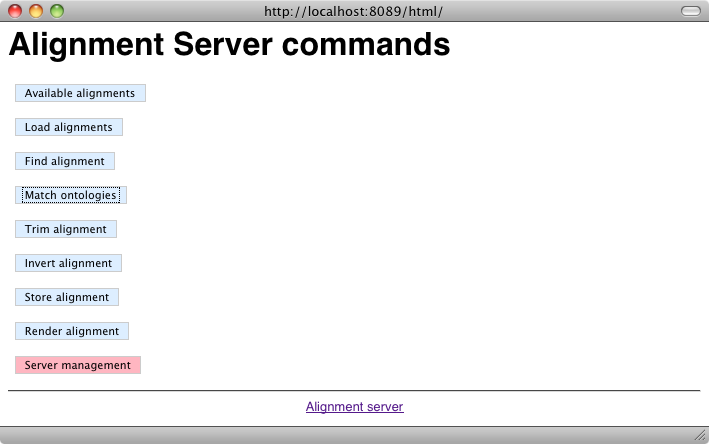
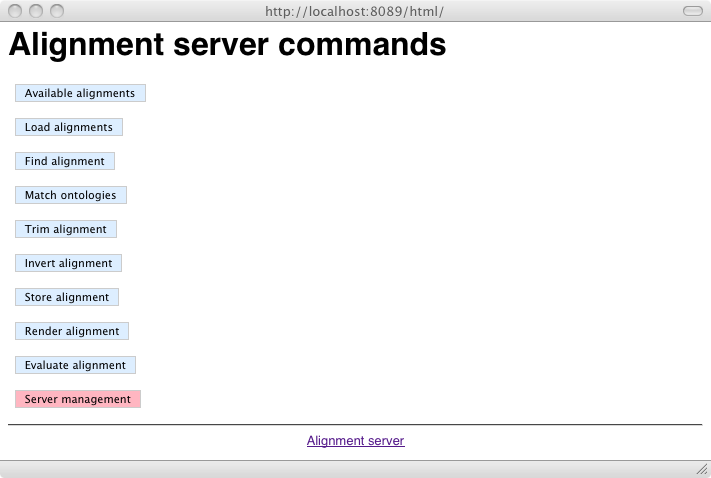
- implemented online evaluation

Changed region(s): [[0.0, 0.1757, 0.9929, 0.9369], [0.0, 0.0, 1.0, 0.1464], [0.0, 0.9662, 1.0, 1.0]]

diff --git a/html/relnotes.html b/html/relnotes.html
@@ -39,14 +39,13 @@ Currently the development and maintainance of 3 versions continue.
 <p><ul compact="1">
 <li>Integration of SKOS API (ontowrap)</li>
 <li>Implement full OWL rendering of EDOAL (impl)</li>
-<li>Adding type checking to EDOAL paser (parser)</li>
+<li>Adding type checking to EDOAL parser (parser)</li>
 <li>Implement fully relaxed precision and recall (impl)</li>
 <li>Implement database store for EDOAL (server)</li>
 <li>Integrate some basic reasoning.</li>
-<li>Complete tutorial4 with reasoning.</li>
+<li>Complete tutorial4 with distributed reasoning.</li>
 <li>Genericize evaluators in <tt>GraphEvaluator</tt> and <tt>GenPlot</tt> (eval)</li>
 <li>Implementation of a provenance metadata tag (server/impl)</li>
-<li>Online evaluation (server)</li>
 <li>Providing a <tt>DiffAlign( al1, al2 )</tt> operation and interface
   (util)</li>
 <li>Replace <tt>DistanceAlignment</tt> with a version more in line
@@ -68,6 +67,8 @@ Currently the development and maintainance of 3 versions continue.
 <!--h2>Version 4.1 (1xxx): xx/09/2009 - Tring</h2-->
 
 <p><ul compact="1">
+<li>Added a getResult() method to Evaluator (api)</li>
+<li>Implemented online evaluation (server)</li>
 <li>Upgraded to <span style="color: green">Pellet 2.1</span> (lib)</li>
 <li>Added tutorial 4 Pellet action (tutorial)</li>
 <li>Fixed path errors in tutorials (tutorial)</li>

diff --git a/html/tutorial/tutorial1/server.html b/html/tutorial/tutorial1/server.html
@@ -32,7 +32,7 @@ div.logic {
 </head>
 <body style="background-color: #FFFFFF;">
 
-<h1>Manipulating alignments through a web client: a tutorial companion for the Alignment server</h1>
+<h1>Manipulating alignments through a web client:<br /> a tutorial companion for the Alignment server</h1>
 
 <dl>
 <dt>This version:</dt>
@@ -238,7 +238,15 @@ following interface:
 
 <h2>Evaluating</h2>
 	
-<p><b>This part is not yet available through the server</b></p>
+<p>
+An alignment can be evaluated against a reference alignment through an
+Evaluator class:
+<center><img src="server/eval1.png" /></center>
+which returns the measures provided by the evaluator (here precision,
+recall and derivative measures):
+<center><img src="server/evalresult1.png" width="100%" /></center>
+</p>
+</p>
 
 <h2>Further exercises</h2>
 	

diff --git a/src/fr/inrialpes/exmo/align/service/HTMLAServProfile.java b/src/fr/inrialpes/exmo/align/service/HTMLAServProfile.java
@@ -421,6 +421,8 @@ public class HTMLAServProfile implements AlignmentServiceProfile {
 	    } else {
 		msg = "Error: the server does not have Web service capabilities (use -W switch)";
 	    }
+	} else if ( perf.equals("argline") ){
+	    msg = "<h1>Command line arguments</h1>\n<pre>\n"+manager.argline()+"\n<pre>\n";
 	} else if ( perf.equals("prmsqlquery") ){
 	    msg = "<h1>SQL query</h1><form action=\"sqlquery\">Query:<br /><textarea name=\"query\" rows=\"20\" cols=\"80\">SELECT \nFROM \nWHERE </textarea> (sql)<br /><small>An SQL SELECT query</small><br /><input type=\"submit\" value=\"Query\"/></form>";
 	} else if ( perf.equals("sqlquery") ){
@@ -776,6 +778,8 @@ public class HTMLAServProfile implements AlignmentServiceProfile {
 	    } else {
 		msg = "<h1>Evaluation results</h1>";
 		msg += displayAnswer( answer, params );
+		// This should be nice here to provide the oportunity to diff them
+		// This needs to pass arguments... and to get them on the other side.
 	    }
 	} else if ( perf.equals("saveeval") ) {
 	} else if ( perf.equals("prmgrpeval") ) {
@@ -783,6 +787,36 @@ public class HTMLAServProfile implements AlignmentServiceProfile {
 	} else if ( perf.equals("savegrpeval") ) {
 	} else if ( perf.equals("prmresults") ) {
 	} else if ( perf.equals("getresults") ) {
+	} else if ( perf.equals("prmdiff") ) {
+	    msg ="<h1>Compare alignments</h1><form action=\"diff\">";
+	    msg += "First alignment: ";
+	    msg += "<select name=\"id1\">";
+	    for( Alignment al: manager.alignments() ){
+		String id = al.getExtension( Namespace.ALIGNMENT.uri, Annotations.ID);
+		String pid = al.getExtension( Namespace.ALIGNMENT.uri, Annotations.PRETTY );
+		if ( pid == null ) pid = id; else pid = id+" ("+pid+")";
+		msg += "<option value=\""+id+"\">"+pid+"</option>";
+	    }
+	    msg += "</select><br />";
+	    msg +="Second alignment: ";
+	    msg += "<select name=\"id2\">";
+	    for( Alignment al: manager.alignments() ){
+		String id = al.getExtension( Namespace.ALIGNMENT.uri, Annotations.ID);
+		String pid = al.getExtension( Namespace.ALIGNMENT.uri, Annotations.PRETTY );
+		if ( pid == null ) pid = id; else pid = id+" ("+pid+")";
+		msg += "<option value=\""+id+"\">"+pid+"</option>";
+	    }
+	    msg += "</select><br />";
+	    msg += "<br /><input type=\"submit\" name=\"action\" value=\"Compare\"/>\n";
+	    msg += "</form>\n";
+	} else if ( perf.equals("diff") ) {
+	    Message answer = manager.diff( new Message(newId(),(Message)null,myId,serverId,"", params) );
+	    if ( answer instanceof ErrorMsg ) {
+		msg = testErrorMessages( answer, params );
+	    } else {
+		msg = "<h1>Comparison results</h1>";
+		msg += displayAnswer( answer, params );
+	    }
 	} else if ( perf.equals("") ) {
 	    msg = "<h1>Alignment server commands</h1>";
 	    msg += "<form action=\"../html/listalignments\"><button title=\"List of all the alignments stored in the server\" type=\"submit\">Available alignments</button></form>";
@@ -793,6 +827,7 @@ public class HTMLAServProfile implements AlignmentServiceProfile {
 	    msg += "<form action=\"prminv\"><button title=\"Swap the two ontologies of an alignment\" type=\"submit\">Invert alignment</button></form>";
 	    msg += "<form action=\"prmstore\"><button title=\"Persistently store an alignent in this server\" type=\"submit\" >Store alignment</button></form>";
 	    msg += "<form action=\"prmretrieve\"><button title=\"Render an alignment in a particular format\" type=\"submit\">Render alignment</button></form>";
+	    msg += "<form action=\"prmeval\"><button title=\"Evaluation of an alignment\" type=\"submit\">Evaluate alignment</button></form>";
 	    msg += "<form action=\"../admin/\"><button style=\"background-color: lightpink;\" title=\"Server management functions\" type=\"submit\">Server management</button></form>";
 	} else {
 	    msg = "Cannot understand command "+perf;

diff --git a/src/fr/inrialpes/exmo/align/service/AServProtocolManager.java b/src/fr/inrialpes/exmo/align/service/AServProtocolManager.java
@@ -28,6 +28,7 @@ import fr.inrialpes.exmo.align.impl.BasicParameters;
 import fr.inrialpes.exmo.align.impl.BasicAlignment;
 import fr.inrialpes.exmo.align.impl.URIAlignment;
 import fr.inrialpes.exmo.align.impl.ObjectAlignment;
+import fr.inrialpes.exmo.align.util.DiffAlign;
 
 import fr.inrialpes.exmo.ontowrap.OntologyFactory;
 import fr.inrialpes.exmo.ontowrap.Ontology;
@@ -179,6 +180,10 @@ public class AServProtocolManager {
 
     public String serverURL(){
 	return myId;
+    }
+
+    public String argline(){
+	return commandLineParams.getProperty( "argline" );
     }
 
    /*********************************************************************
@@ -585,6 +590,36 @@ public class AServProtocolManager {
 	}
 	// Compare it
 	try { eval.eval(params); }
+	catch (AlignmentException e) {
+	    return new ErrorMsg(newId(),mess,myId,mess.getSender(),"dummy//",(Properties)null);
+	}
+	// Could also be EvaluationId if we develop a more elaborate evaluation description
+	return new EvalResult(newId(),mess,myId,mess.getSender(),classname,eval.getResults());
+    }
+
+    public Message diff( Message mess ){
+	Properties params = mess.getParameters();
+	// Retrieve the alignment
+	String id1 = params.getProperty("id1");
+	Alignment al1 = null;
+	try {
+	    al1 = alignmentCache.getAlignment( id1 );
+	} catch (Exception e) {
+	    return new UnknownAlignment(newId(),mess,myId,mess.getSender(),"unknown/Alignment/"+id1,(Properties)null);
+	}
+	// Retrieve the reference alignment
+	String id2 = params.getProperty("id2");
+	Alignment al2 = null;
+	try {
+	    al2 = alignmentCache.getAlignment( id2 );
+	} catch (Exception e) {
+	    return new UnknownAlignment(newId(),mess,myId,mess.getSender(),"unknown/Alignment/"+id2,(Properties)null);
+	}
+	// Set the comparison method
+	// Should be rewritted with diff -- no choice
+	DiffAlign eval = new DiffAlign( al1, al2 );
+	// Compare it
+	try { eval.eval( params ); }
 	catch (AlignmentException e) {
 	    return new ErrorMsg(newId(),mess,myId,mess.getSender(),"dummy//",(Properties)null);
 	}

diff --git a/src/fr/inrialpes/exmo/align/service/EvalResult.java b/src/fr/inrialpes/exmo/align/service/EvalResult.java
@@ -1,7 +1,7 @@
 /*
  * $Id$
  *
- * Copyright (C) INRIA, 2006-2009
+ * Copyright (C) INRIA, 2006-2010
  *
  * This program is free software; you can redistribute it and/or
  * modify it under the terms of the GNU Lesser General Public License
@@ -32,15 +32,20 @@ public class EvalResult extends Success {
 	super( surr, rep, from, to, cont, param );
     }
     public String HTMLString(){
-	// This can only rely on a HTML output of the Evaluator
-	return "Alignment ID: <a href=\"../html/retrieve?method=fr.inrialpes.exmo.align.impl.renderer.HTMLRendererVisitor&id="+getContent()+"\">"+getContent()+"</a>";
+	String results = "Alignment method: "+getContent()+"\n<ul>\n";
+	for ( String key : getParameters().stringPropertyNames() ) {
+	    results += "<li>"+key+" : "+getParameters().getProperty( key )+"</li>\n";
+	}
+	results += "</ul>\n";
+	return results;
     }
     public String RESTString(){
-	// This can only rely on a XML output of the Evaluator
-	// We have one through the write( PrintWriter ) method
-	// This should go to content
-	//return "<id>"+surrogate+"</id>"+"<sender>"+sender+"</sender>" + "<receiver>"+receiver+"</receiver>" + "<in-reply-to>" + inReplyTo+ "</in-reply-to>" + "<alid>" + content + "</alid>";	
-	return "<alid>"+content+"</alid>";	
+	String results = "<EvaluationResults>";
+	for ( String key : getParameters().stringPropertyNames() ) {
+	    results += "<"+key+">"+getParameters().getProperty( key )+"</"+key+">";
+	}
+	results += "</EvaluationResults>";
+	return results;	
     }
 
 }
